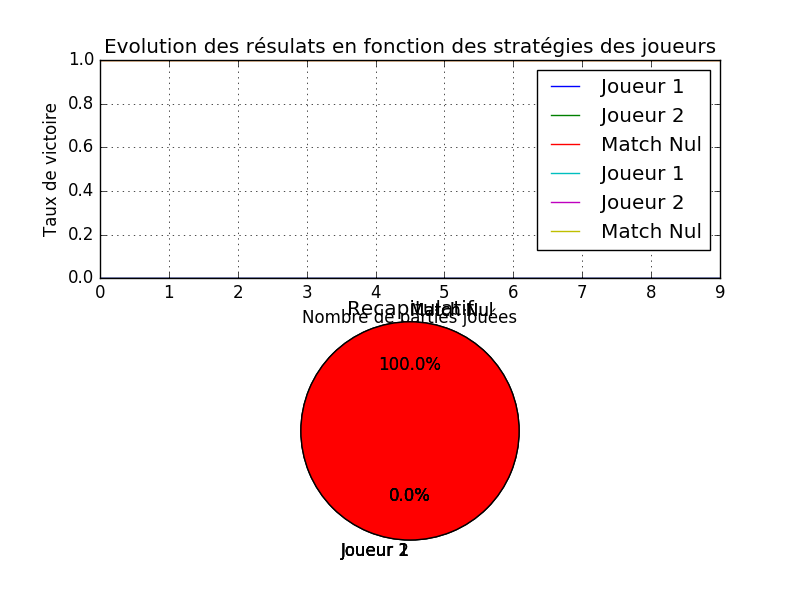
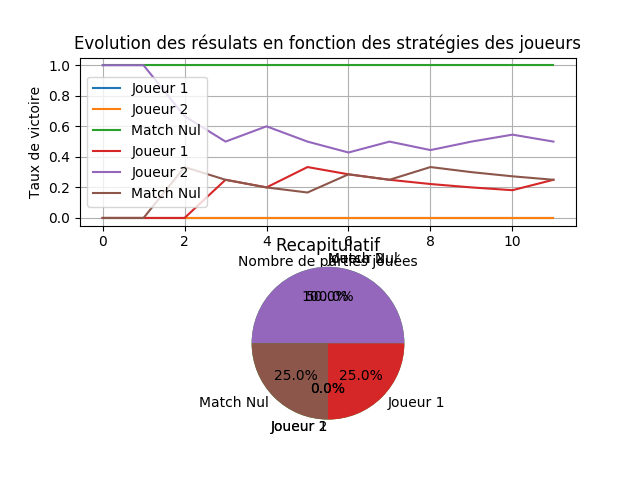
v0.1

Changed region(s): [[0.0312, 0.0625, 0.9062, 0.9375], [0.375, 0.25, 0.4688, 0.2812], [0.4062, 0.1875, 0.4375, 0.2188]]

diff --git a/strategies.py b/strategies.py
@@ -6,13 +6,20 @@ import numpy as np
 def strategiePrudente(partie=None, partiesPrecedentes=None):
     n = partie.stockInitial
     m = partie.nombreCases
-    with open('data/{}-{}-{}.json'.format(50, 50, m), 'rb') as conf_file:
+    with open('data/{}-{}-{}.conf'.format(50, 50, m), 'rb') as conf_file:
         a = pickle.load(conf_file)
     p1 = partie.stockGauche
     p2 = partie.stockDroite
     t = partie.positionTroll
-    s_opt = a[p1, p2, t]
-    return np.random.choice(np.arange(1, p1, 1), p=s_opt)
+    s_opt = a[p1 + 2, p2 + 2, t - (m//2)]
+    # Transformation de s_opt en tableau... Grmmmbl
+    s_opt_tab = []
+    for key in s_opt:
+        s_opt_tab.append(s_opt[key])
+    s_opt_tab.pop()
+    s_opt_tab.pop()
+    a = np.random.choice(np.arange(1, p1+1, 1), p=s_opt_tab)
+    return int(a)
 
 
 def renvoieCinq(partie=None, partiesPrecedentes=None):

diff --git a/chart.py b/chart.py
@@ -65,9 +65,9 @@ def affiche_graphe(strat1, strat2, nb_parties, nb_pierre, nb_case):
     plt.title('Recapitulatif')
 
     # Affichage des graphiques
-    # plt.show()
-    plt.savefig('graph.png')
+    plt.show()
+    #plt.savefig('graph.png')
 
 
 if __name__ == '__main__':
-    affiche_graphe(strategies.renvoieAleaMieux, strategies.renvoieDeux, 1000, 15, 7)
+    affiche_graphe(strategies.strategiePrudente, strategies.renvoieAlea, 100, 15, 7)

diff --git a/README.md b/README.md
@@ -1,26 +1,35 @@
 # Théorie des jeux, jeu du troll.
-Sur Unix :  
-``pip install pygame``
 
-# Ressources
-Tuto ligne par ligne d'un jeu basique sur Pygame :  
-https://www.pygame.org/docs/tut/ChimpLineByLine.html  
+## Pré-requis
+Tkinter:  
+``pip install tkinter``  
+Si cela ne fonctionne pas, sur debian:  
+``apt-get install python3-tk``  
 
-Tuto Open Classroom pour Pygame :  
-https://openclassrooms.com/courses/interface-graphique-pygame-pour-python  
-   
-   
-# Git Workflow 
+Matplotlib:   
+``pip install matplotlib``  
+pickle:  
+``pip install pickle``  
+PuLP:  
+``pip install pulp``  
 
-Pour bien fonctionner ensemble sur Git :  
-On travaillera uniquement sur la branche master, dans un soucis de simplicité.
-Pour ne pas avoir de conflit et casser le répo, nous allons utiliser le workflow suivant :  
- * Lors du commit, ne pas oublier de mettre le numéro de la tâche en cours :  
- *git commit -m "task#42 ..."*  
+## Lancement du programme
 
- * Avant de push son code :  
- *git pull origin master --rebase*  
+L'interface graphique du logiciel se lance via:  
+``python3 interface.py``  
 
- * Une fois le rebase effectué :  
- *git push origin master*  
+Dans l'éventualité où l'interface graphique ne fonctionne pas, il existe un script **chart.py** qui crée un graphique du nom de *"graph.png"*  
+``python3 chart.py``
 
+Il suffit alors de changer la dernière ligne (l.73) pour changer la configuration initiale du jeu et le nombre de partie.
+*affiche_graphe(strategies.strategiePrudente, strategies.renvoieAlea, 100, 15, 7)*  
+Il est possible de trouver une liste des strategies existantes dans le fichier **strategie.py**.
+
+## Problèmes
+Quelques défauts existent et rendent certains résultats non viable.  
+Notamment sur la stratégie prudente : celle-ci met du temps à s'executer, une optimisation est possible lors du calcul des configurations.  
+De plus, les arrondis de calculs font que, plusieurs fois, la somme des probabilités n'est pas tout à fait égale à 1, ce qui cause un bug pour numpy qui calcule le random, faisant perdre la partie à la stratégie prudente et donc faussant les résultats.
+
+L'interface graphique a du mal à afficher le graphique correctement. Une modification s'impose...
+
+ 
